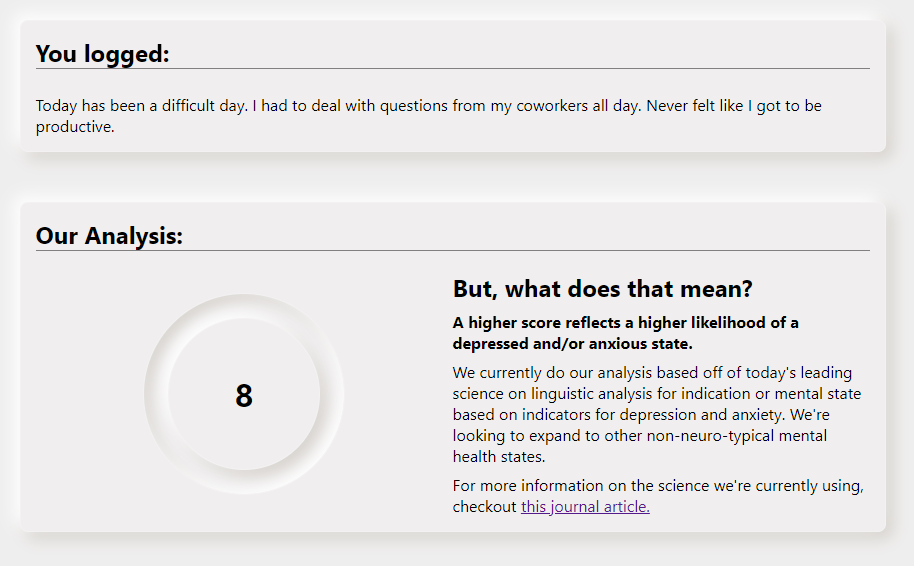
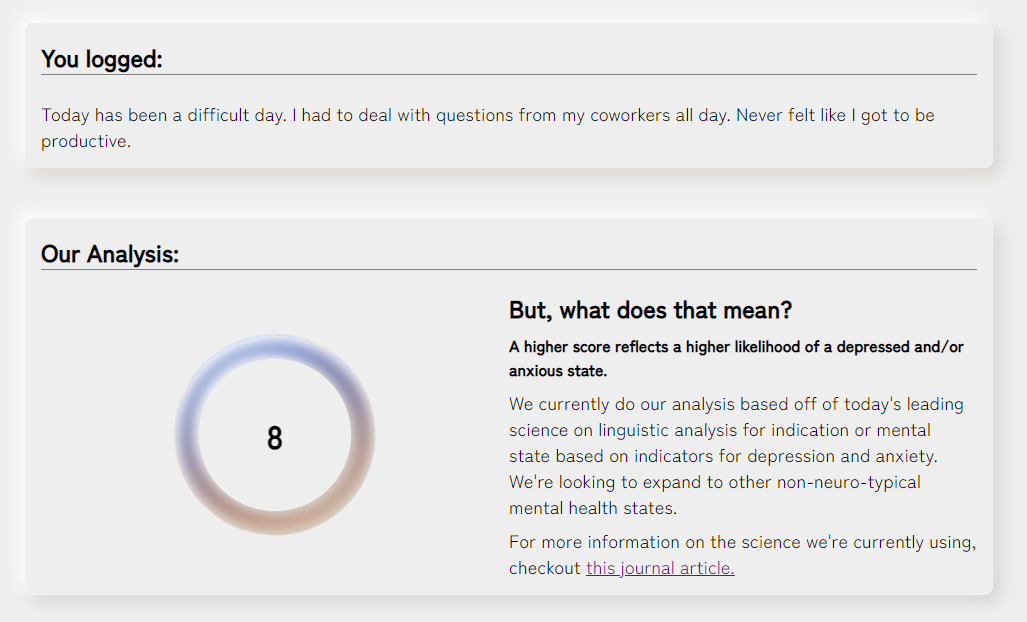
Updated CSS with fonts, colors, animations, and sizings. Fixed a bug with displaying of analysis scores when the score is greater than zero - previously thought fixed when analysis scores of zero wouldn't display, but that fix cause the reverse to stop working.

diff --git a/src/pages/cssFiles/AnalysisPage.css b/src/pages/cssFiles/AnalysisPage.css
@@ -18,11 +18,11 @@
     flex-direction: column;
     gap: 25px;
 
-    background-color: rgba(240, 238, 239, 1.0);
+    background-color: var(--main-white);
 
-    border: 0.2px solid rgba(255, 255, 255, 0.2);
+    border: 0.2px solid var(--border-shadow);
     border-radius: 8px;
-    box-shadow: -6px -6px 16px rgba(255, 255, 255, 1.0), 6px 6px 16px rgba(209, 205, 199, 1.0);
+    box-shadow: -6px -6px 16px var(--light-shadow), 6px 6px 16px var(--dark-shadow);
 }
 
 .AnalysisPageLogContentHeader {
@@ -35,11 +35,11 @@
     flex-direction: column;
     gap: 20px;
 
-    background-color: rgba(240, 238, 239, 1.0);
+    background-color: var(--main-white);
 
-    border: 0.2px solid rgba(255, 255, 255, 0.2);
+    border: 0.2px solid var(--border-shadow);
     border-radius: 8px;
-    box-shadow: -6px -6px 16px rgba(255, 255, 255, 1.0), 6px 6px 16px rgba(209, 205, 199, 1.0);
+    box-shadow: -6px -6px 16px var(--light-shadow), 6px 6px 16px var(--dark-shadow);
 }
 
 .AnalysisPageResultHeader {
@@ -65,11 +65,12 @@
     align-items: center;
     justify-content: center;
 
-    background-color: rgba(240, 238, 239, 1.0);
+    background: linear-gradient(-45deg, var(--blue), var(--orange));
+    animation: 6s rotate linear infinite;
 
-    border: 0.2px solid rgba(255, 255, 255, 0.2);
+    border: 0.2px solid var(--outer-circle-border);
     border-radius: 50%;
-    box-shadow: -6px -6px 16px rgba(255, 255, 255, 1.0) inset, 6px 6px 16px rgba(209, 205, 199, 1.0) inset;
+    box-shadow: -6px -6px 16px var(--light-shadow) inset, 6px 6px 16px var(--dark-shadow) inset;
 }
 
 .AnalysisPageScoreInnerCircle {
@@ -80,11 +81,12 @@
     align-items: center;
     justify-content: center;
 
-    background-color: rgba(240, 238, 239, 1.0);
+    background-color: var(--main-white);
+    animation: 6s anti-rotate linear infinite;
 
-    border: 0.2px solid rgba(255, 255, 255, 0.2);
+    border: 0.2px solid var(--border-shadow);
     border-radius: 50%;
-    box-shadow: -6px -6px 16px rgba(255, 255, 255, 1.0), 6px 6px 16px rgba(209, 205, 199, 1.0);
+    box-shadow: -6px -6px 16px var(--light-shadow), 6px 6px 16px var(--dark-shadow);
 }
 
 .AnalysisPageExplanation {
@@ -93,4 +95,14 @@
     align-items: flex-start;
     justify-content: center;
     gap: 8px;
+}
+
+@keyframes rotate {
+  from {transform: rotate(0deg);}
+  to {transform:rotate(360deg);}
+}
+
+@keyframes anti-rotate {
+    from{transform: rotate(0deg);}
+    to {transform: rotate(-360deg);}
 }

diff --git a/src/components/cssFiles/DashboardLogElement.css b/src/components/cssFiles/DashboardLogElement.css
@@ -4,16 +4,16 @@
     grid-template-columns: 1fr 3fr 2fr 5fr 2fr 1fr;
     grid-template-rows: 150px;
 
-    background-color: rgba(240, 238, 239, 1.0);
+    background-color: var(--main-white);
 
-    border: 0.2px solid rgba(255, 255, 255, 0.2);
+    border: 0.2px solid var(--border-shadow);
     border-radius: 8px;
-    box-shadow: -6px -6px 16px rgba(255, 255, 255, 1.0), 6px 6px 16px rgba(209, 205, 199, 1.0);
+    box-shadow: -6px -6px 16px var(--light-shadow), 6px 6px 16px var(--dark-shadow);
 }
 
 .DashboardLogElement:hover {
     cursor: pointer;
-    box-shadow: -6px -6px 16px rgba(255, 255, 255, 1.0) inset, 6px 6px 16px rgba(209, 205, 199, 1.0) inset;
+    box-shadow: -6px -6px 16px var(--light-shadow) inset, 6px 6px 16px var(--dark-shadow) inset;
 }
 
 .DashboardLogElementDate {
@@ -59,9 +59,12 @@
     height: 90px;
     width: 90px;
 
+    background: linear-gradient(-45deg, var(--blue), var(--orange));
+    animation: 6s rotate linear infinite;
+
     border-radius: 50%;
-    border: 0.2px solid rgba(255, 255, 255, 0.2);
-    box-shadow: -6px -6px 16px rgba(255, 255, 255, 1.0) inset, 6px 6px 16px rgba(209, 205, 199, 1.0) inset;
+    border: 0.2px solid var(--outer-circle-border);
+    box-shadow: -6px -6px 16px var(--light-shadow) inset, 6px 6px 16px var(--dark-shadow) inset;
 }
 
 .DashboardLogElementScoreInnerCircle {
@@ -72,7 +75,21 @@
     height: 60px;
     width: 60px;
 
+    background-color: var(--main-white);
+    animation: 6s anti-rotate linear infinite;
+
     border-radius: 50%;
-    border: 0.2px solid rgba(255, 255, 255, 0.2);
-    box-shadow: -6px -6px 16px rgba(255, 255, 255, 1.0), 6px 6px 16px rgba(209, 205, 199, 1.0);
+    border: 0.2px solid var(--border-shadow);
+    box-shadow: -6px -6px 16px var(--light-shadow), 6px 6px 16px var(--dark-shadow);
+}
+
+
+@keyframes rotate {
+  from {transform: rotate(0deg);}
+  to {transform:rotate(360deg);}
+}
+
+@keyframes anti-rotate {
+    from{transform: rotate(0deg);}
+    to {transform: rotate(-360deg);}
 }

diff --git a/src/pages/tsxFiles/AnalysisPage.tsx b/src/pages/tsxFiles/AnalysisPage.tsx
@@ -30,7 +30,7 @@ const AnalysisPage = (): JSX.Element => {
                                 </div>
                                 <div className="AnalysisPageExplanation">
                                     <h2>But, what does that mean?</h2>
-                                    <h4>A higher score reflects a higher likelihood of a depressed and/or anxious state.</h4>
+                                    <p>A higher score reflects a higher likelihood of a depressed and/or anxious state.</p>
                                     <p>We currently do our analysis based off of today's leading science on linguistic analysis for indication or mental state based on indicators for depression and anxiety. We're looking to expand to other non-neuro-typical mental health states.</p>
                                     <p>
                                         For more information on the science we're currently using, checkout <span>

diff --git a/src/App.css b/src/App.css
@@ -1,14 +1,32 @@
+:root {
+  --blue: rgba(53, 107, 224, 88);
+  --yellow: rgba(224, 205, 31, 88);
+  --light-blue: rgba(43, 196, 224, 88);
+  --purple: rgba(100, 65, 224, 88);
+  --orange: rgba(224, 144, 76, 88);
+  --main-white: rgba(239, 238, 238, 1.0);
+  --light-shadow: rgba(255, 255, 255, 1.0);
+  --dark-shadow: rgba(209, 205, 199, 1.0);
+  --border-shadow: rgba(255, 255, 255, 0.2);
+  --outer-circle-border: rgba(255, 255, 255, 0.8)
+}
+
 * {
   margin: 0;
   padding: 0;
 }
 
 body {
-  background-color: rgba(239, 238, 238, 1.0);
+  background-color: var(--main-white);
+  font-family: 'Zen Kaku Gothic Antique', sans-serif;
 }
 
 .App {
   display: flex;
   flex-direction: column;
   gap: 50px;
+}
+
+p {
+  font-size: 1.15em;
 }

diff --git a/public/index.html b/public/index.html
@@ -24,9 +24,14 @@
       work correctly both with client-side routing and a non-root public URL.
       Learn how to configure a non-root public URL by running `npm run build`.
     -->
-    <title>React App</title>
+    <link
+      href="https://fonts.googleapis.com/css2?family=Encode+Sans+SC:wdth,wght@75,717&amp;family=Zen+Kaku+Gothic+Antique:wght@400;500&amp;display=swap"
+      rel="stylesheet"
+    />
+    <title>Summit - Mental Tracker</title>
     <script id="react-dotenv" src="/env.js"></script>
   </head>
+
   <body>
     <noscript>You need to enable JavaScript to run this app.</noscript>
     <div id="root"></div>

diff --git a/src/components/tsxFiles/DashboardLogElement.tsx b/src/components/tsxFiles/DashboardLogElement.tsx
@@ -49,8 +49,10 @@ const DashboardLogElement = (props: IProps): JSX.Element => {
     }
 
     function checkAnalysis(): void {
-        if (props.analysis === 0) {
-            setAnalysisFalsey(true)
+        if (props.analysis !== null) {
+            if (props.analysis >= 0) {
+                setAnalysisFalsey(true)
+            }
         }
     }
 

diff --git a/src/pages/cssFiles/HomePage.css b/src/pages/cssFiles/HomePage.css
@@ -10,3 +10,12 @@
 .HomePageIntro {
     width: 65vw;
 }
+
+.HomePageIntro > h1 {
+    font-family: 'Encode Sans SC', sans-serif;
+    font-size: 5rem;
+    background: linear-gradient(var(--light-blue), var(--orange));
+    background-clip: text;
+    -webkit-background-clip: text;
+    -webkit-text-fill-color: transparent;
+}
